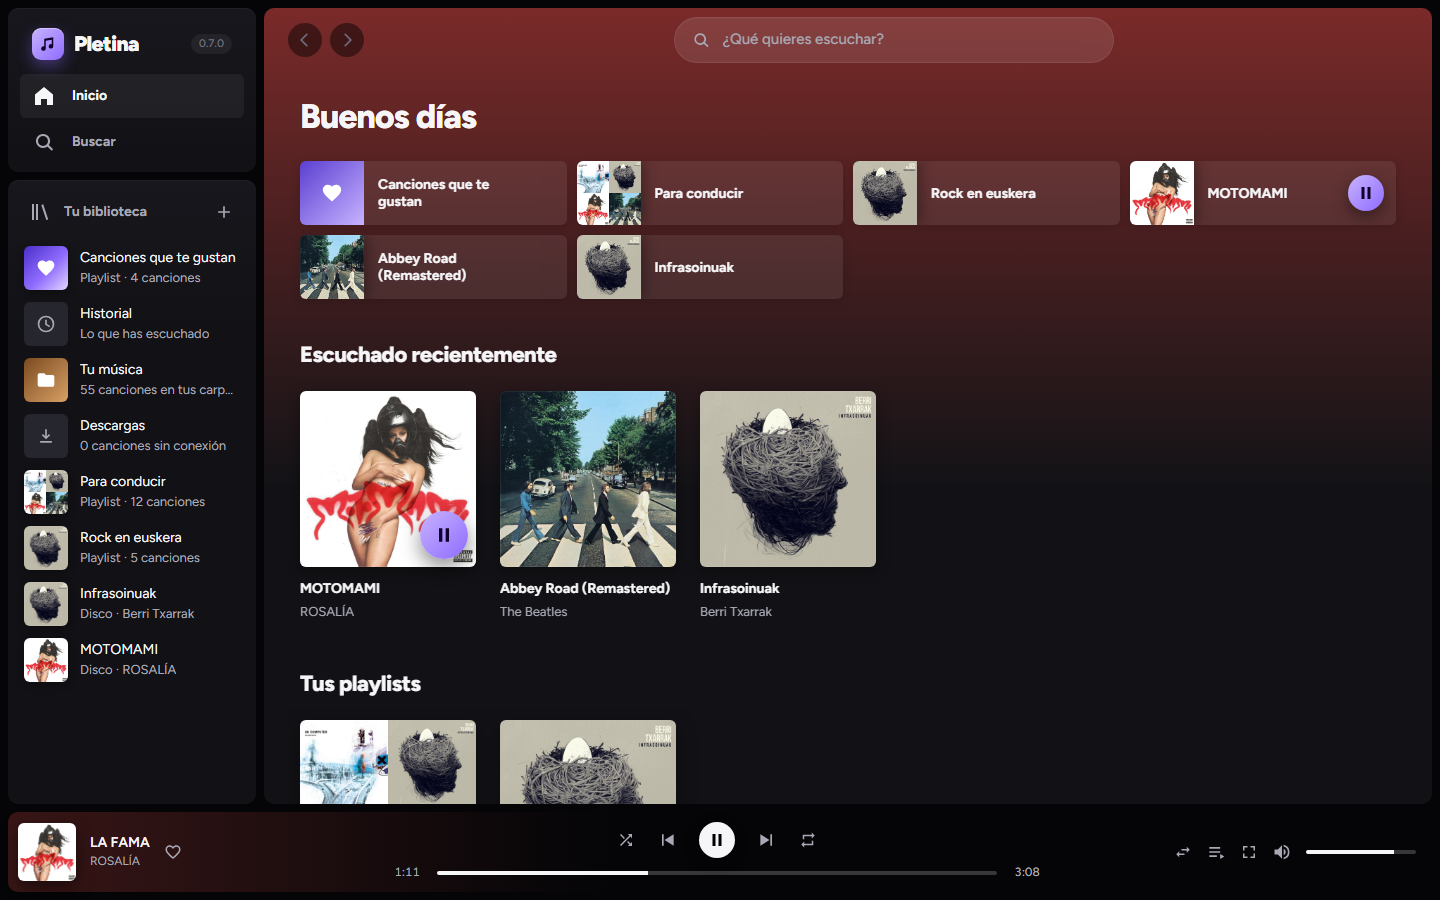
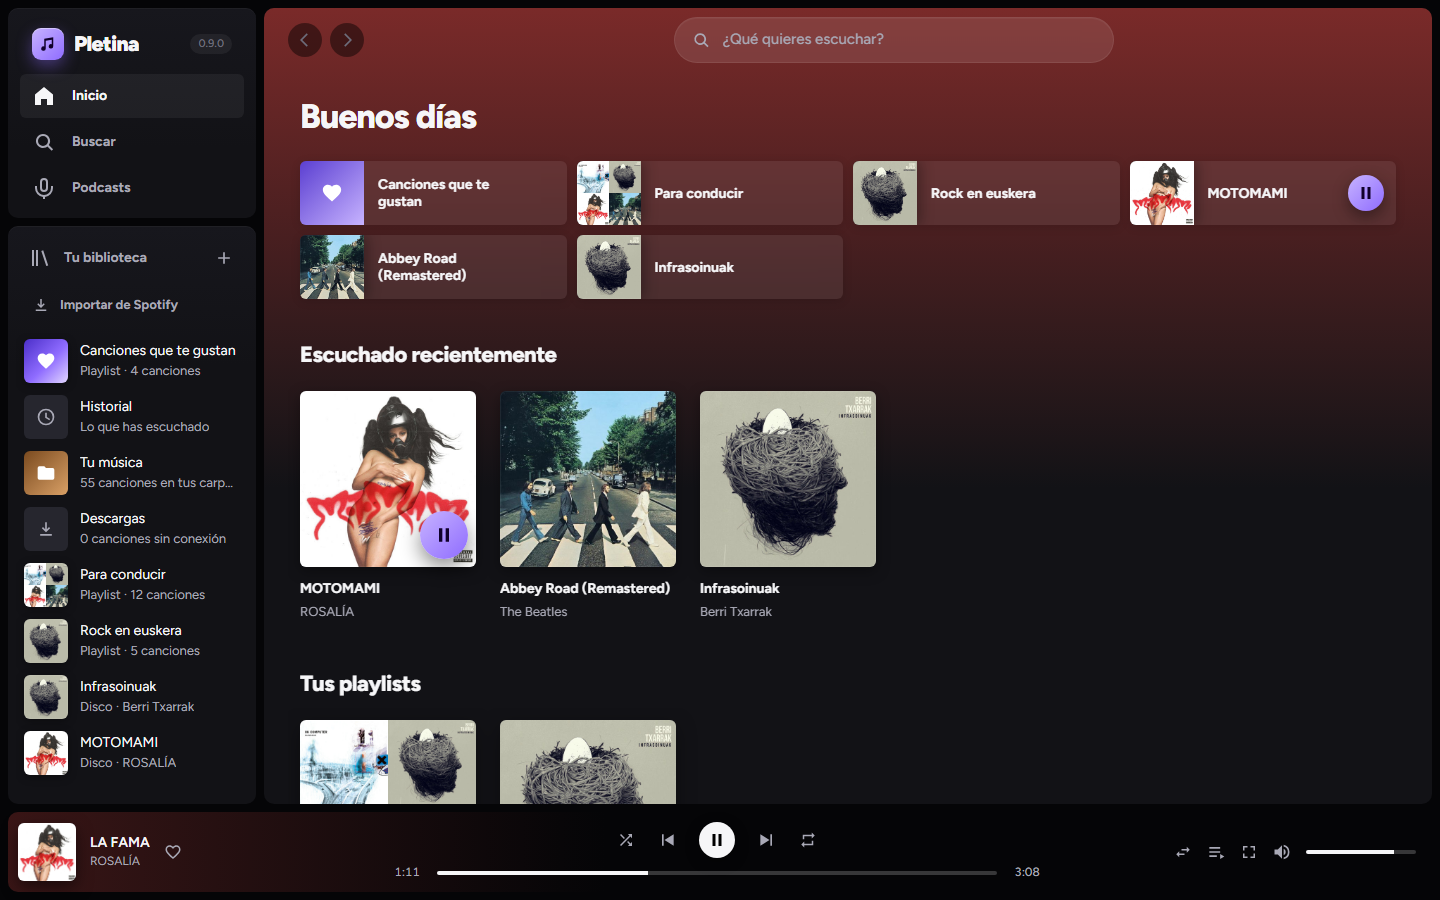
README: capturas de la 0.9.0 (con podcasts) y primero las capturas, después Spotify y podcasts

Changed region(s): [[0.0, 0.1867, 0.1562, 0.8711]]

diff --git a/README.md b/README.md
@@ -4,22 +4,6 @@ Reproductor de música tipo Spotify para Windows, Mac, Linux y Android. Busca gr
 
 Software libre con licencia [GPL-3.0](LICENSE). Antes se llamaba Musify.
 
-### Importar playlists de Spotify
-
-En **Tu biblioteca → Importar de Spotify**, pega el enlace completo de una lista pública. Pletina lee sus títulos y artistas, busca las canciones equivalentes en su catálogo y muestra las encontradas y las omitidas. Revisa el resultado, cambia el nombre si quieres y pulsa **Guardar playlist**: se crea una lista nueva, conservando el orden y las repeticiones. Puedes cancelar o reintentar una búsqueda interrumpida sin crear una lista a medias.
-
-La vista pública de Spotify puede devolver solo parte de una lista (habitualmente hasta las primeras 100 canciones) y no permite consultar listas privadas. Para esas listas, importa un **CSV que ya hayas exportado**, de hasta 10 MB y 10.000 filas. Se admiten columnas `Track Name` y `Artist Name(s)` (o `Title` y `Artist`), y opcionalmente `Duration (ms)` e `ISRC`; los artistas múltiples se separan con punto y coma. Se leen archivos separados por comas, punto y coma o tabuladores. Los episodios, archivos locales y filas sin título o artista se omiten con aviso.
-
-No hace falta iniciar sesión en Spotify. La importación copia las canciones encontradas al catálogo local de Pletina; no sincroniza cambios posteriores. Las listas originales de Spotify no se modifican. La disponibilidad depende de la vista pública de Spotify y de las coincidencias del catálogo.
-
-### Podcasts
-
-La sección **Podcasts**, en la barra lateral y en la navegación del móvil, permite buscar programas y escuchar sus episodios. El filtro **Idioma** empieza en español y recuerda tu elección; incluye inglés, catalán, euskera, gallego, francés, portugués, alemán, italiano y todos los idiomas. Se comprueba el idioma que publica cada programa en su RSS: las variantes regionales se agrupan y los programas sin idioma declarado solo aparecen al elegir todos.
-
-Los episodios se reproducen desde el audio publicado por su autor y comparten la cola, favoritos, playlists e historial con la música. El catálogo procede de Apple Podcasts y la disponibilidad depende de las fuentes de cada programa; estos episodios necesitan conexión.
-
-Debajo salen también los programas de **YouTube Music**, en su propia sección («En YouTube»), con su portada; allí cada temporada suele ser un programa aparte. Sus episodios suenan con el mismo motor que la música (también en el móvil con la pantalla apagada) y se pueden **descargar** para escucharlos sin conexión, igual que una canción. YouTube no dice el idioma de cada programa, así que esa sección no se filtra.
-
 ![Inicio](docs/screenshots/inicio.png)
 
 | | |
@@ -28,6 +12,8 @@ Debajo salen también los programas de **YouTube Music**, en su propia sección 
 | **Disco:** la portada tiñe toda la pantalla | **Artista:** foto de cabecera y sus canciones más escuchadas |
 | ![Sonando ahora](docs/screenshots/sonando.png) | ![Playlist](docs/screenshots/playlist.png) |
 | **Sonando ahora:** pantalla completa con la cola | **Playlist:** se ordena arrastrando |
+| ![Podcasts](docs/screenshots/podcasts.png) | ![Un programa de podcast](docs/screenshots/podcast.png) |
+| **Podcasts:** también los de YouTube Music (en la captura, programas de ejemplo) | **Un programa:** sus episodios comparten cola, favoritos e historial con la música |
 
 ### En el móvil
 
@@ -55,6 +41,22 @@ La misma app, pensada para el dedo. La música suena en un servicio de Android: 
     <td><b>Pantalla de bloqueo</b>: sigue sonando con la pantalla apagada</td>
   </tr>
 </table>
+
+### Importar playlists de Spotify
+
+En **Tu biblioteca → Importar de Spotify**, pega el enlace completo de una lista pública. Pletina lee sus títulos y artistas, busca las canciones equivalentes en su catálogo y muestra las encontradas y las omitidas. Revisa el resultado, cambia el nombre si quieres y pulsa **Guardar playlist**: se crea una lista nueva, conservando el orden y las repeticiones. Puedes cancelar o reintentar una búsqueda interrumpida sin crear una lista a medias.
+
+La vista pública de Spotify puede devolver solo parte de una lista (habitualmente hasta las primeras 100 canciones) y no permite consultar listas privadas. Para esas listas, importa un **CSV que ya hayas exportado**, de hasta 10 MB y 10.000 filas. Se admiten columnas `Track Name` y `Artist Name(s)` (o `Title` y `Artist`), y opcionalmente `Duration (ms)` e `ISRC`; los artistas múltiples se separan con punto y coma. Se leen archivos separados por comas, punto y coma o tabuladores. Los episodios, archivos locales y filas sin título o artista se omiten con aviso.
+
+No hace falta iniciar sesión en Spotify. La importación copia las canciones encontradas al catálogo local de Pletina; no sincroniza cambios posteriores. Las listas originales de Spotify no se modifican. La disponibilidad depende de la vista pública de Spotify y de las coincidencias del catálogo.
+
+### Podcasts
+
+La sección **Podcasts**, en la barra lateral y en la navegación del móvil, permite buscar programas y escuchar sus episodios. El filtro **Idioma** empieza en español y recuerda tu elección; incluye inglés, catalán, euskera, gallego, francés, portugués, alemán, italiano y todos los idiomas. Se comprueba el idioma que publica cada programa en su RSS: las variantes regionales se agrupan y los programas sin idioma declarado solo aparecen al elegir todos.
+
+Los episodios se reproducen desde el audio publicado por su autor y comparten la cola, favoritos, playlists e historial con la música. El catálogo procede de Apple Podcasts y la disponibilidad depende de las fuentes de cada programa; estos episodios necesitan conexión.
+
+Debajo salen también los programas de **YouTube Music**, en su propia sección («En YouTube»), con su portada; allí cada temporada suele ser un programa aparte. Sus episodios suenan con el mismo motor que la música (también en el móvil con la pantalla apagada) y se pueden **descargar** para escucharlos sin conexión, igual que una canción. YouTube no dice el idioma de cada programa, así que esa sección no se filtra.
 
 ## Instalar
 
